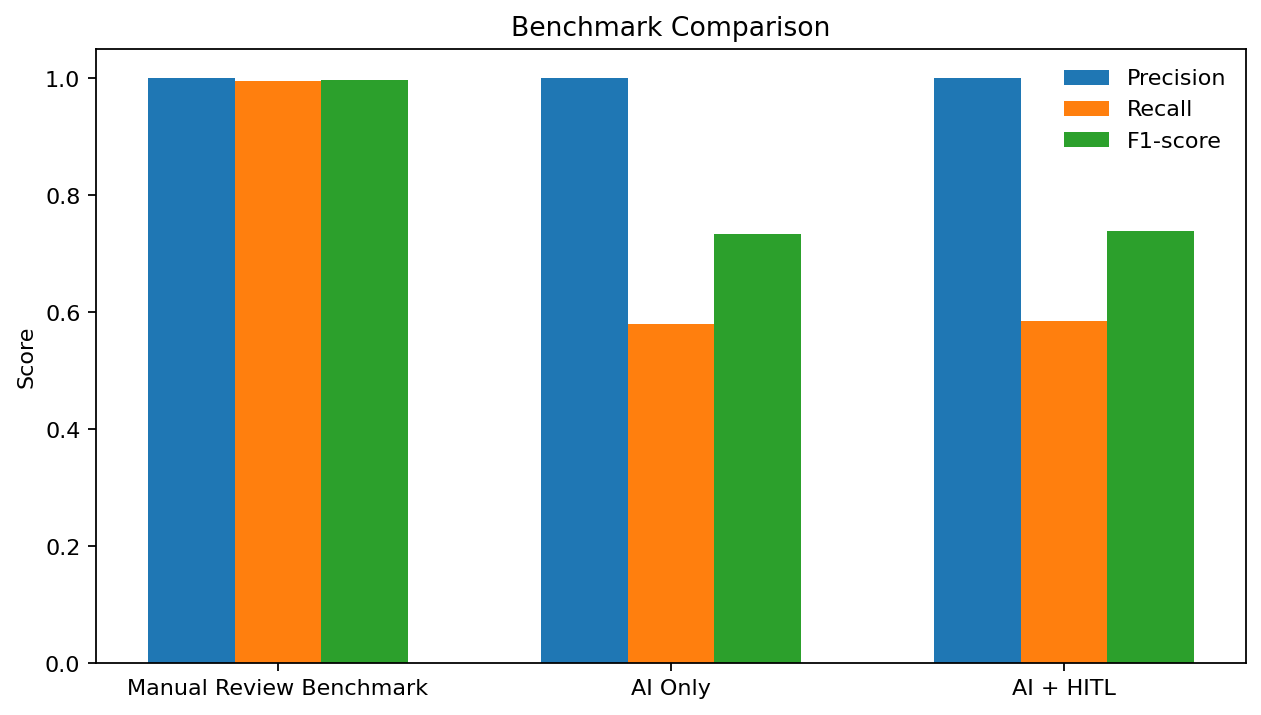
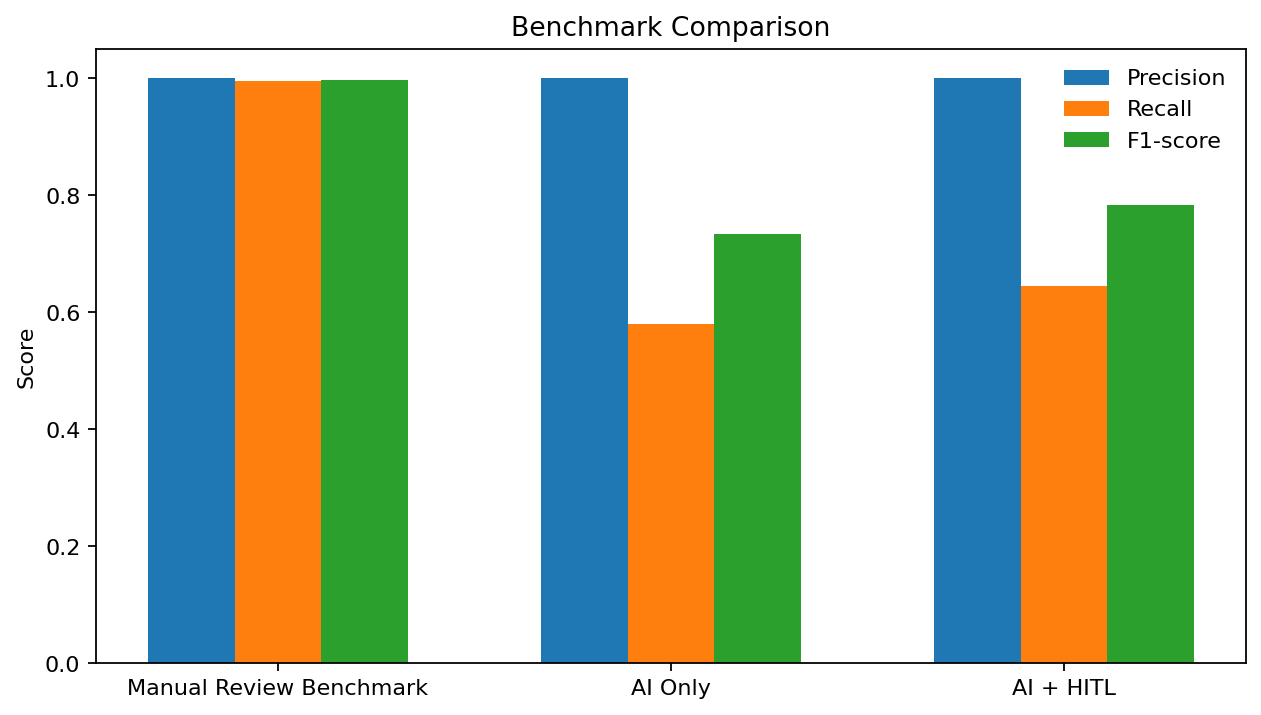
fix similarity scoring not showing up for city and state

Changed region(s): [[0.866, 0.2769, 0.9588, 0.3385], [0.8041, 0.4, 0.8969, 0.4615]]

diff --git a/app/streamlit_app.py b/app/streamlit_app.py
@@ -21,6 +21,8 @@ from src.review_store import (  # noqa: E402
     save_review_decisions,
     upsert_review_decision,
 )
+from src.similarity import fuzzy_similarity  # noqa: E402
+from src.utils import exact_similarity  # noqa: E402
 
 
 def _load_csv_if_exists(path: Path, *, dtype: str | None = None) -> pd.DataFrame:
@@ -123,8 +125,8 @@ def _build_pair_comparison_df(pair: pd.Series) -> pd.DataFrame:
         ("Date of birth", pair["date_of_birth_a"], pair["date_of_birth_b"], float(pair["sim_dob"])),
         ("Gender", pair["gender_a"], pair["gender_b"], float(pair["sim_gender"])),
         ("Address", pair["address_a"], pair["address_b"], float(pair["sim_address"])),
-        ("City", pair["city_a"], pair["city_b"], None),
-        ("State", pair["state_a"], pair["state_b"], None),
+        ("City", pair["city_a"], pair["city_b"], fuzzy_similarity(pair["city_a"], pair["city_b"])),
+        ("State", pair["state_a"], pair["state_b"], exact_similarity(pair["state_a"], pair["state_b"])),
         ("Postcode", pair["postcode_a"], pair["postcode_b"], float(pair["sim_postcode"])),
     ]
 